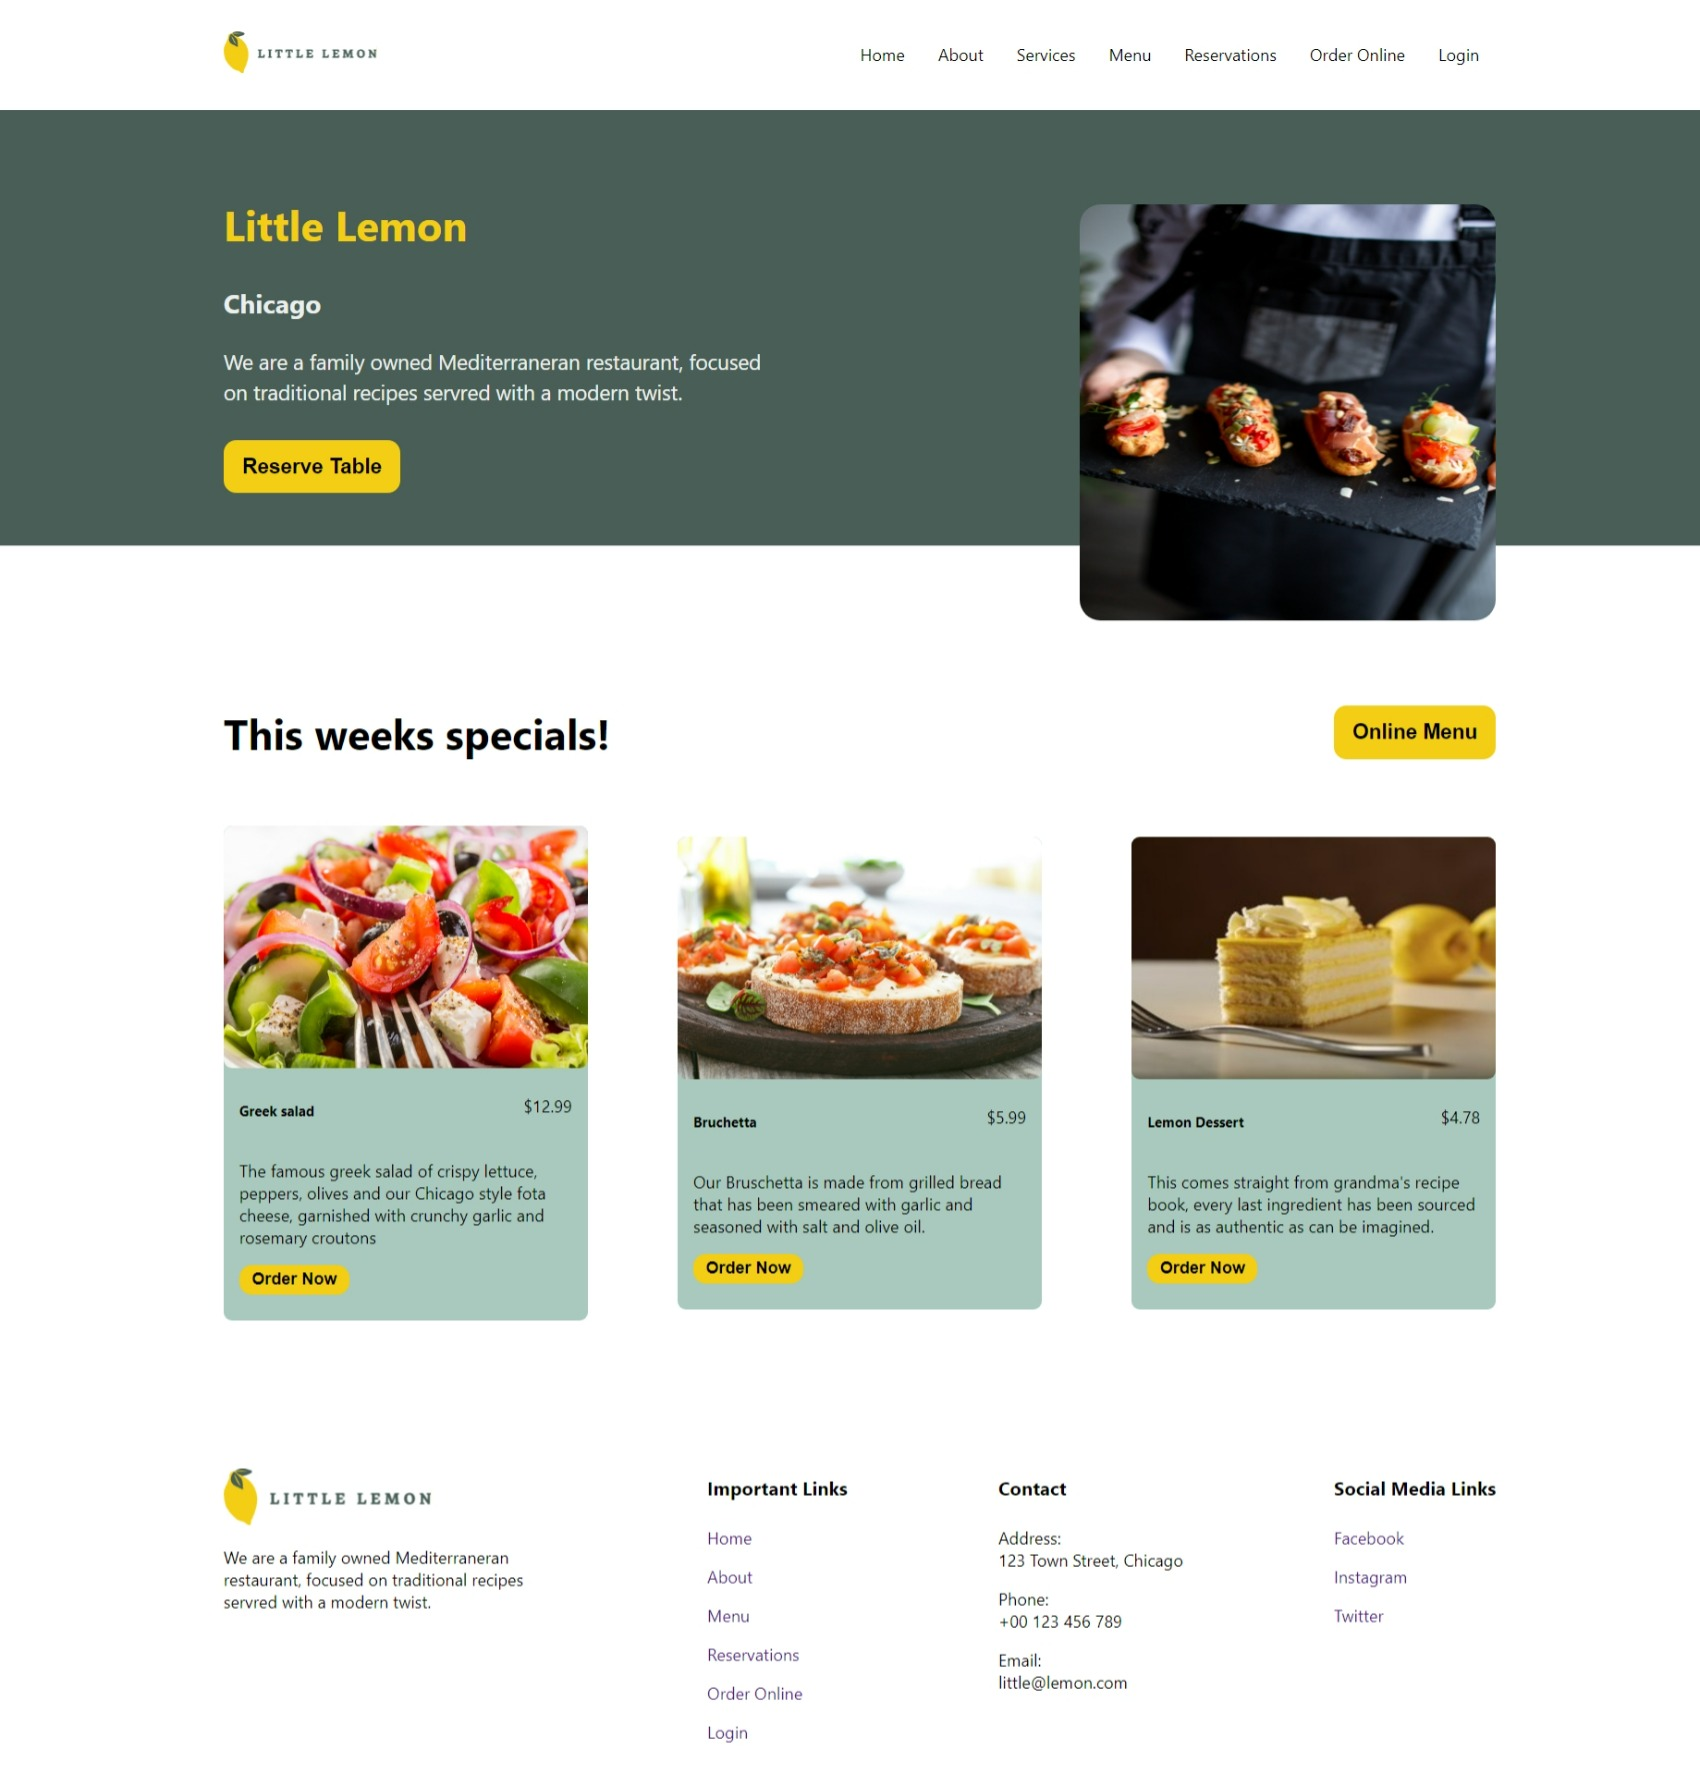
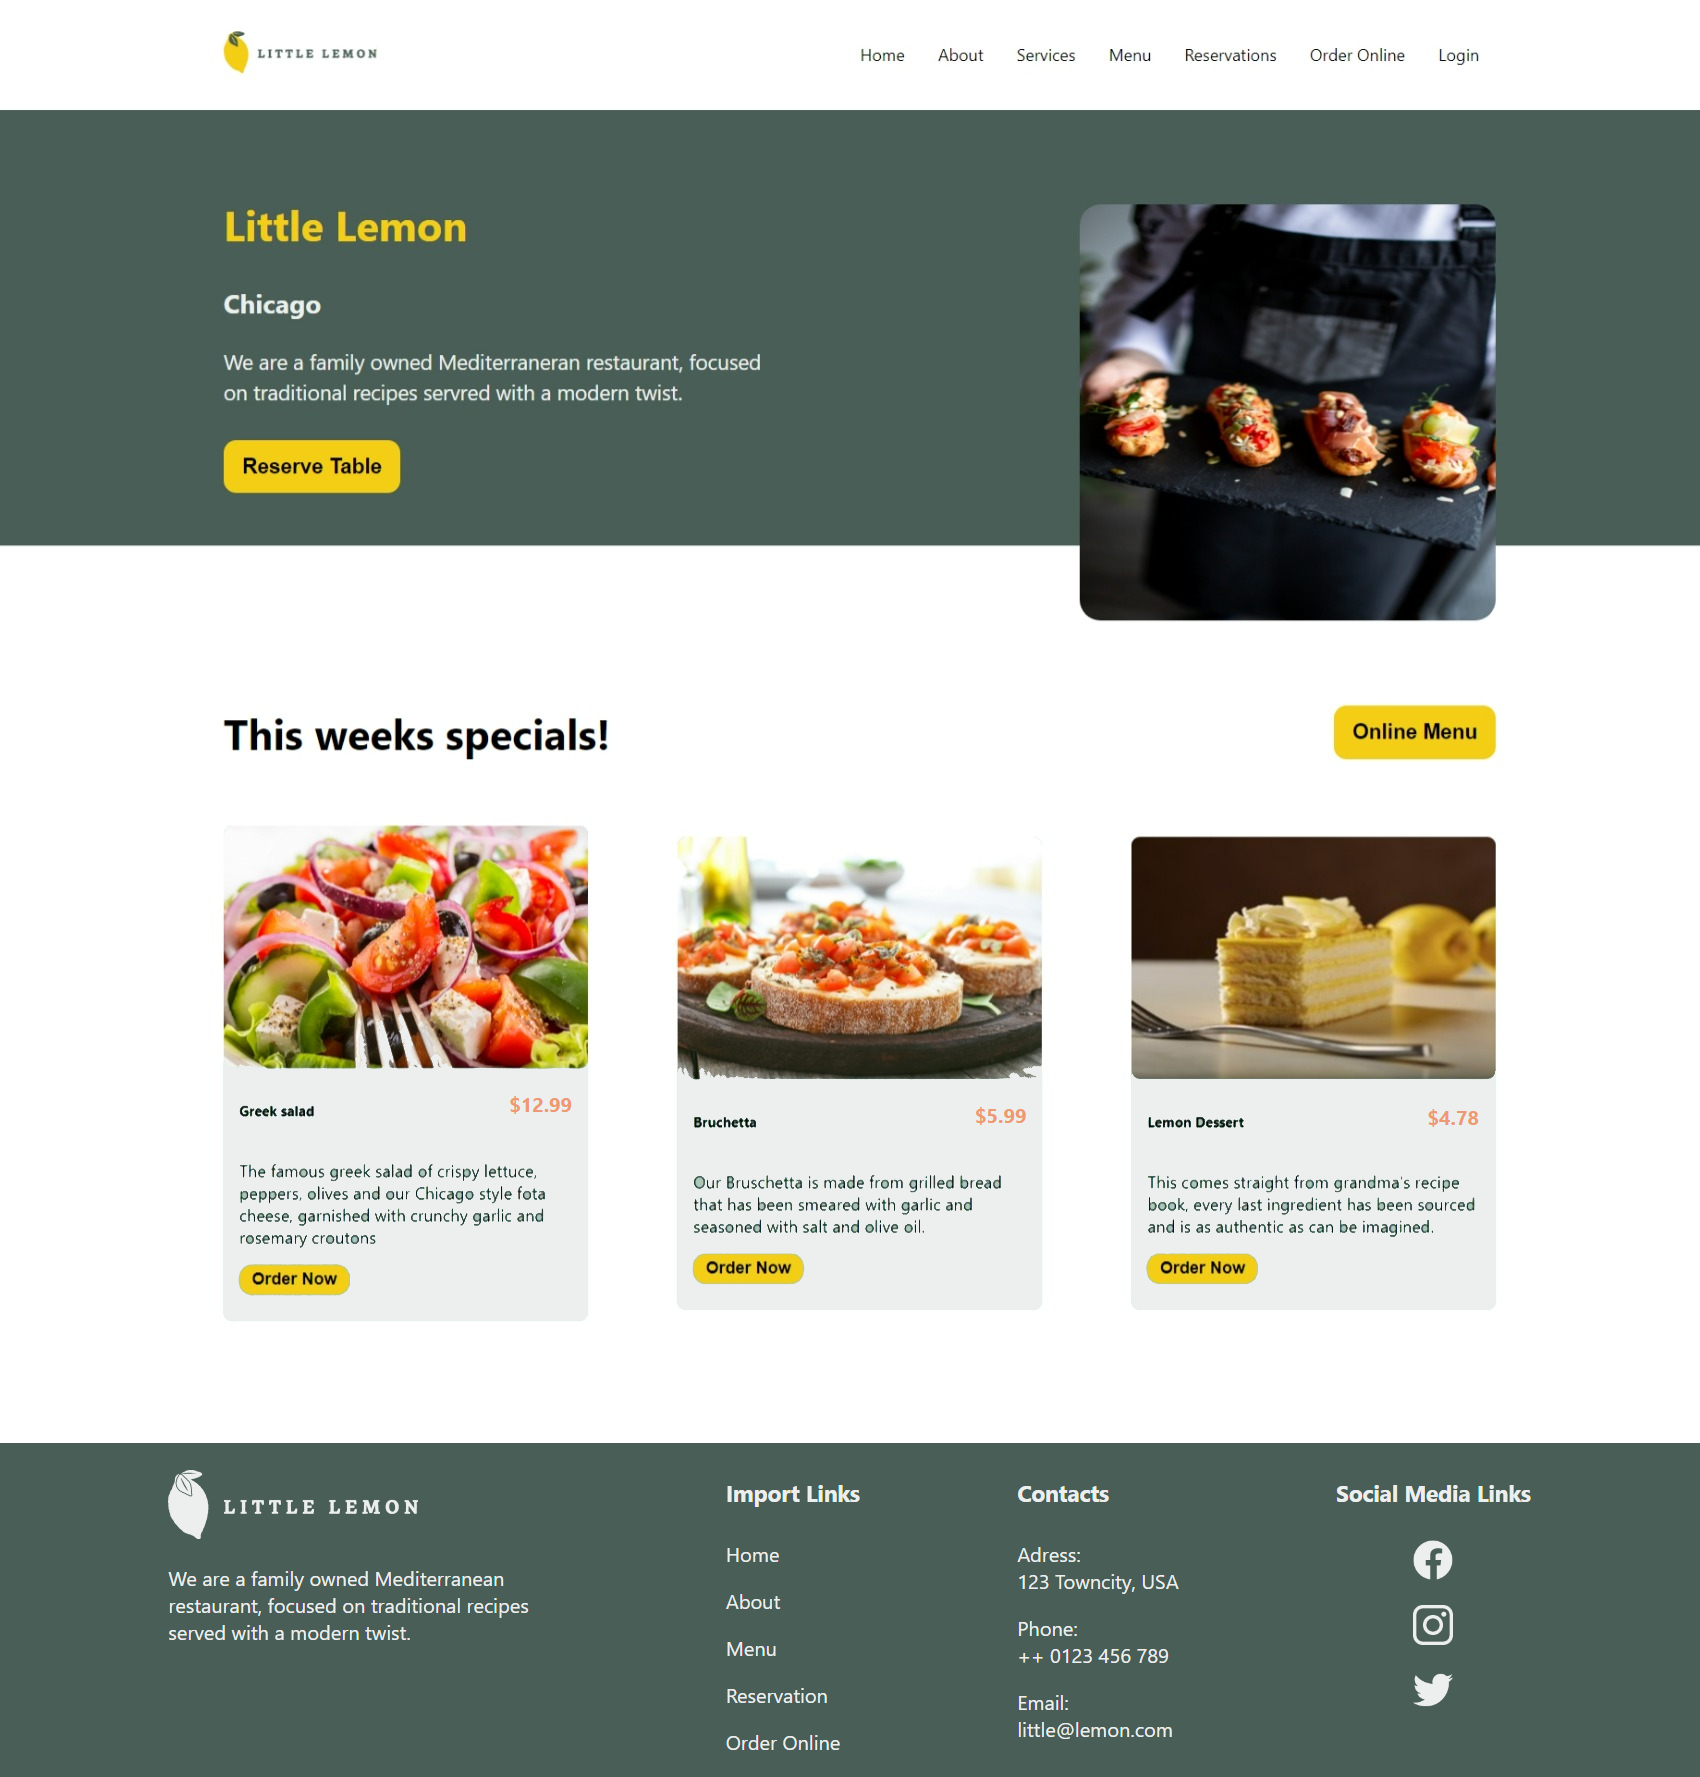
Updated some CSS

diff --git a/src/recipes.js b/src/recipes.js
@@ -2,7 +2,7 @@ const recipes = [
     {
       id: 1,
       title: "Greek salad",
-      price: 12.99,
+      price: "$12.99",
       image: "https://i.ibb.co/68c9bLv/greek-salad.jpg",
       description:
         "The famous greek salad of crispy lettuce, peppers, olives and our Chicago style fota cheese, garnished with crunchy garlic and rosemary croutons",
@@ -10,7 +10,7 @@ const recipes = [
     {
       id: 2,
       title: "Bruchetta",
-      price: 5.99,
+      price: "$5.99",
       image: "https://i.ibb.co/317GqZv/Bruchetta.png",
       description:
         "Our Bruschetta is made from grilled bread that has been smeared with garlic and seasoned with salt and olive oil.",
@@ -18,7 +18,7 @@ const recipes = [
     {
       id: 3,
       title: "Lemon Dessert",
-      price: 4.78,
+      price: "$4.78",
       image: "https://i.ibb.co/sm6MfcH/desert.jpg",
       description:
         "This comes straight from grandma's recipe book, every last ingredient has been sourced and is as authentic as can be imagined.",

diff --git a/public/index.html b/public/index.html
@@ -13,7 +13,7 @@
     <meta name="theme-color" content="#000000" />
     <meta
       name="description"
-      content="Website for Little Lemon Restaurant" 
+      content="Website for Little Lemon Restaurant"
     />
     <meta name="og:title" content="Little Lemon Website"/>
     <meta name="og:description" content="Website for Little Lemon Restaurant"/>

diff --git a/src/App.css b/src/App.css
@@ -218,6 +218,11 @@ input, label{
   justify-content: space-between;
 }
 
+.heading p {
+  color: #EE9972;
+  font-weight: 700;
+}
+
 .orderBtn{
   padding: 5px 12px;
   margin-bottom: 20px;
